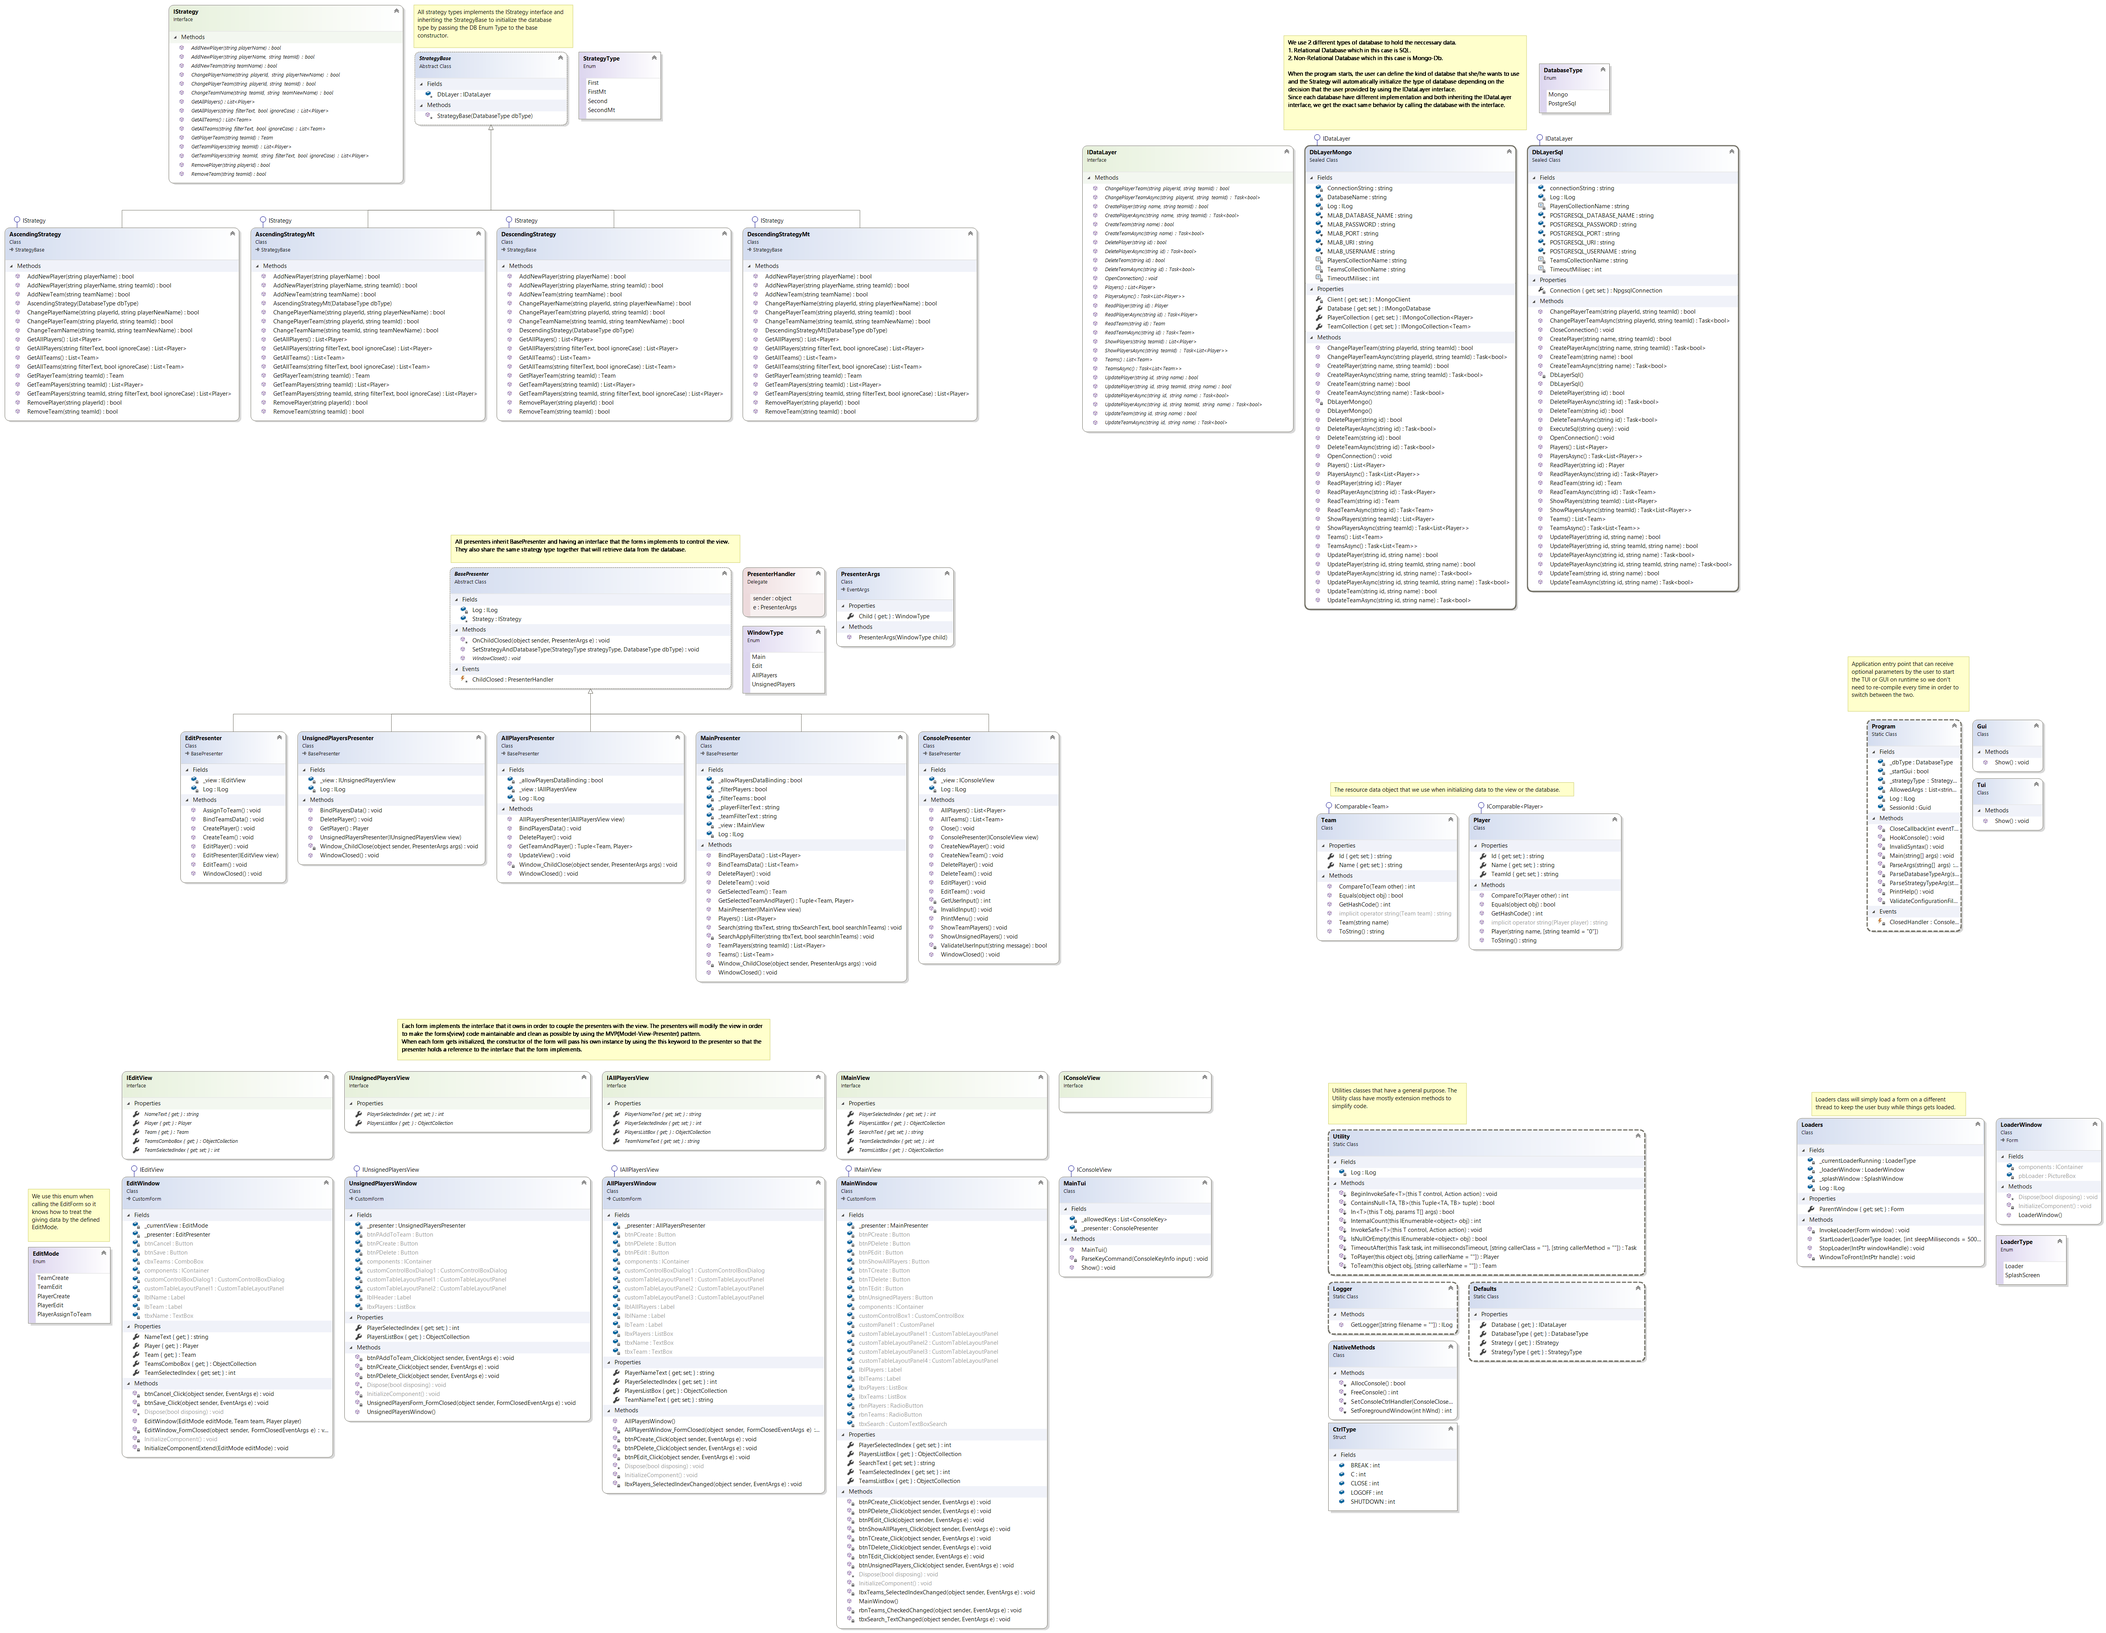
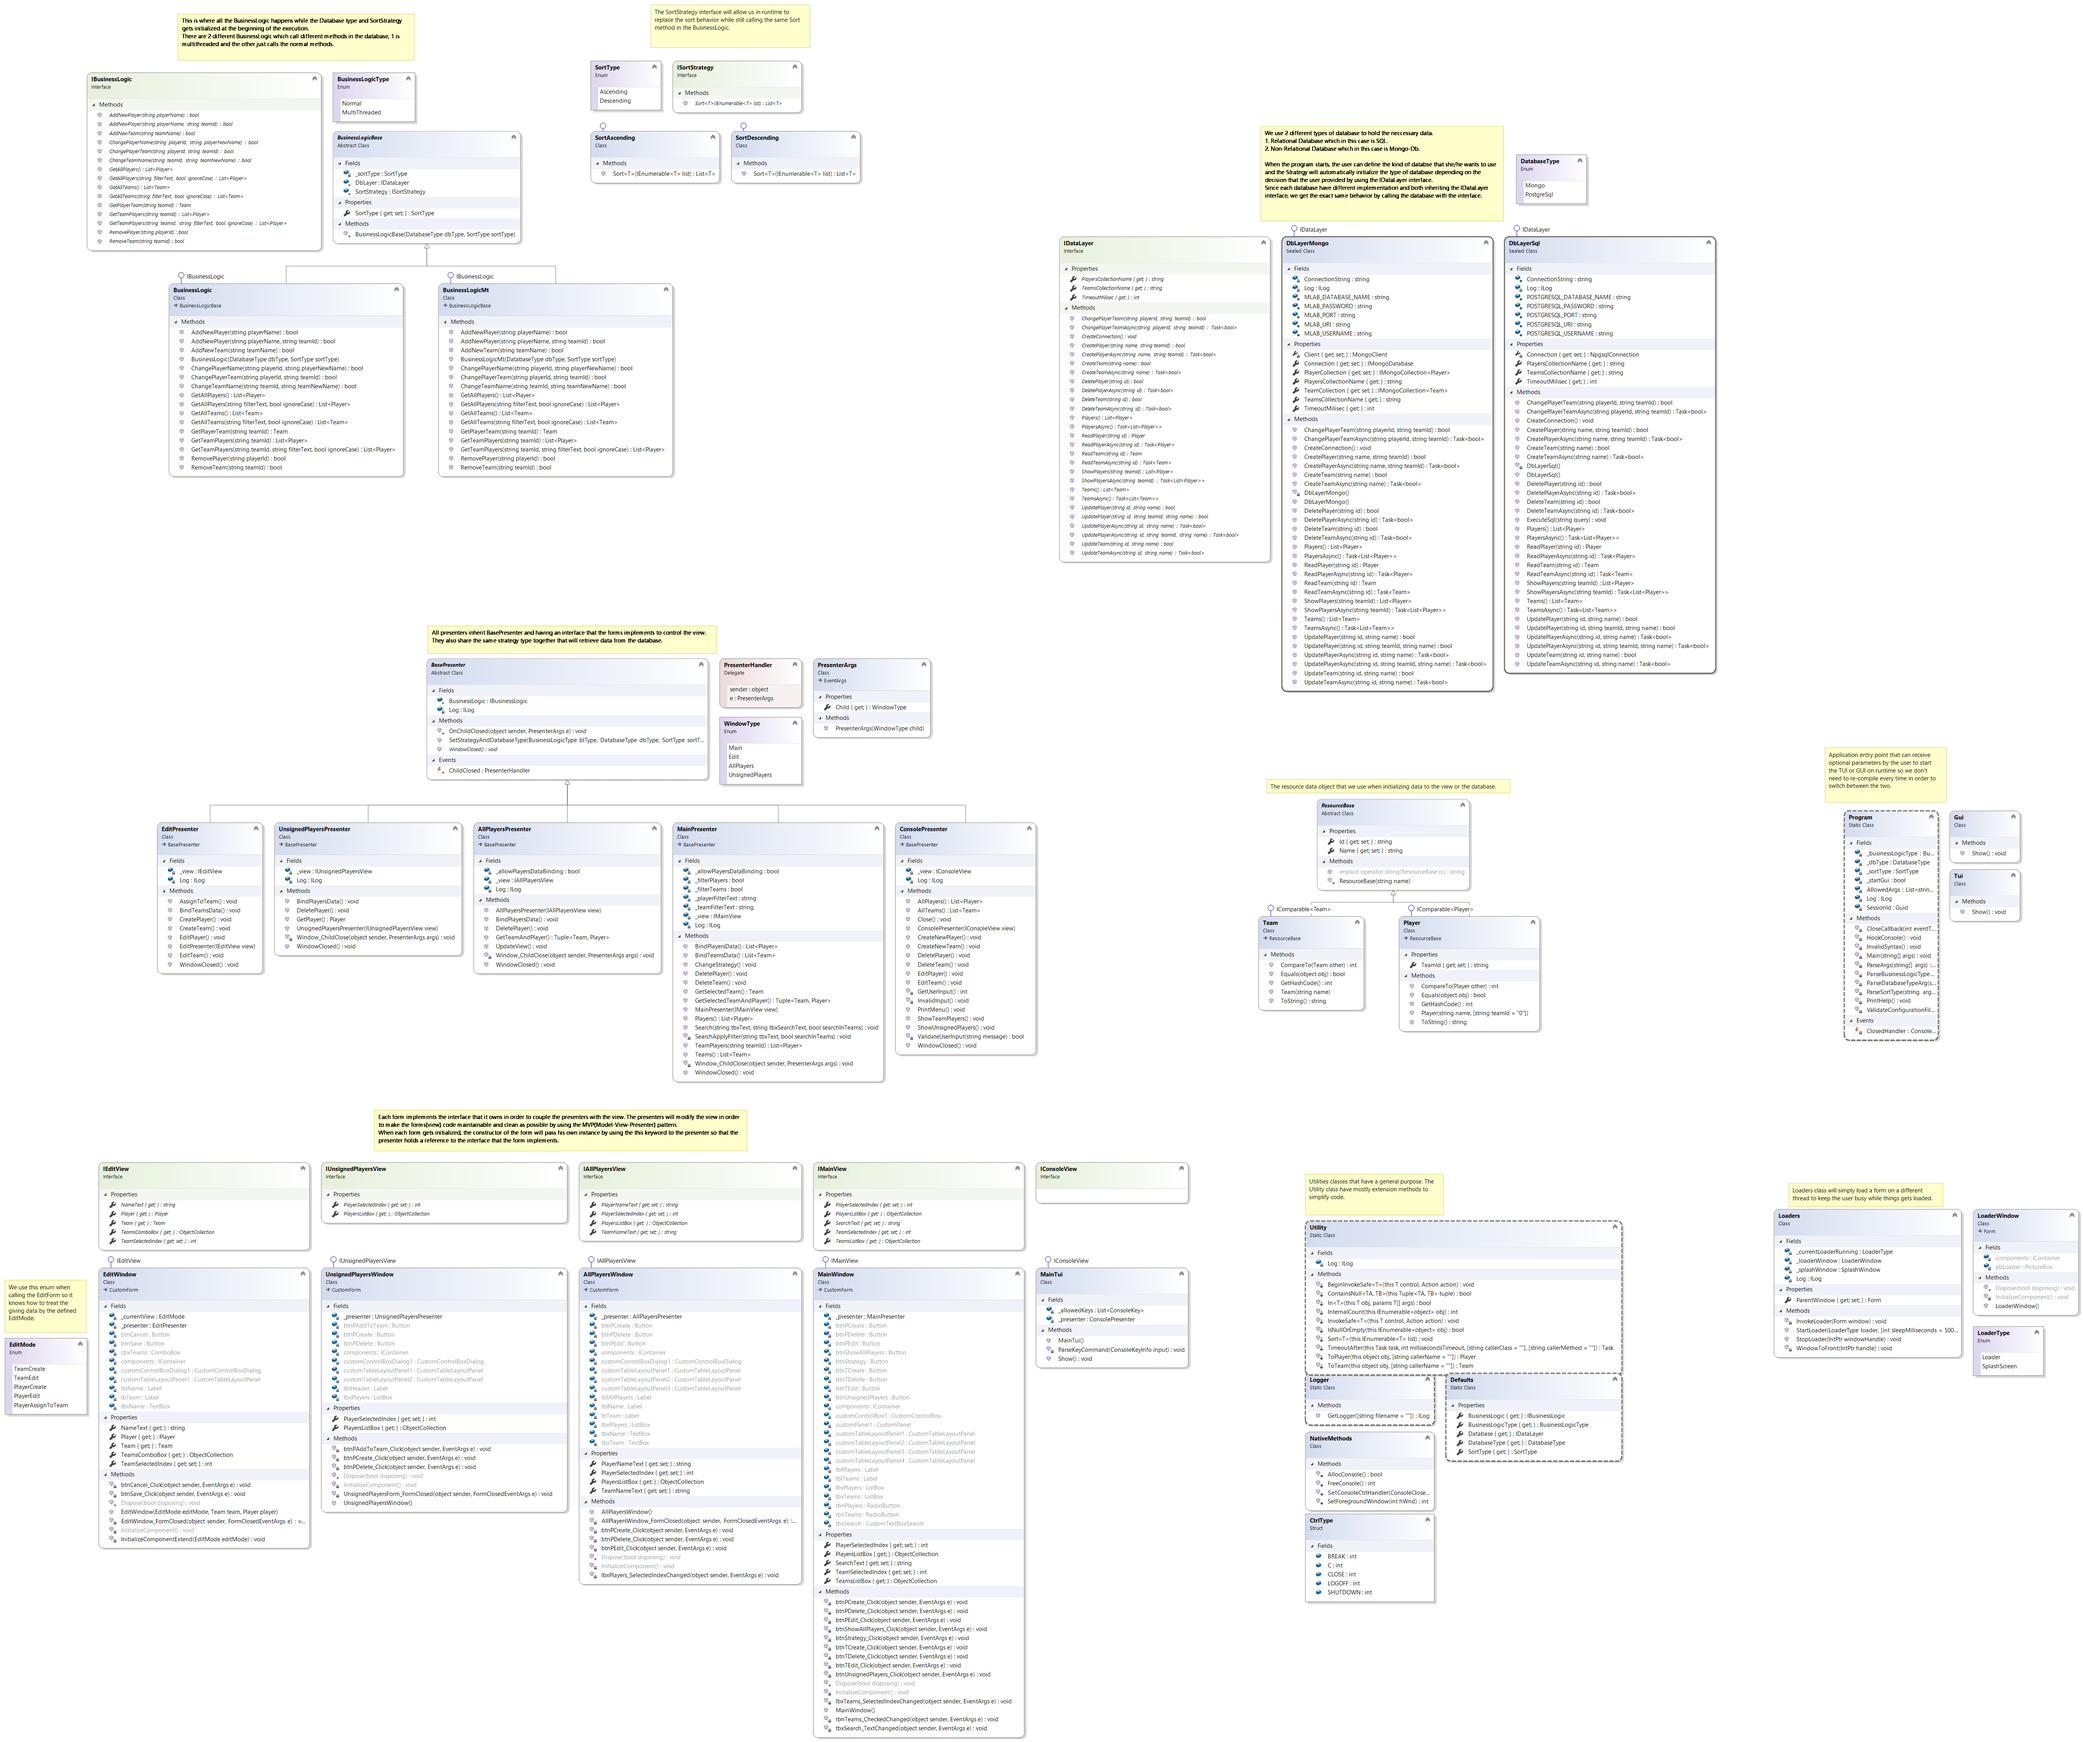
Move strategy into its own namespace and clean up project a bit.

diff --git a/src/TeamManager/Models/Logic/BusinessLogicMt.cs b/src/TeamManager/Models/Logic/BusinessLogicMt.cs
@@ -1,13 +1,14 @@
-using System;
-using System.Collections.Generic;
+using System.Collections.Generic;
 using System.Linq;
-using System.Text;
-using System.Threading.Tasks;
 using TeamManager.Database;
 using TeamManager.Models.ResourceData;
+using TeamManager.Models.Strategy;
 
 namespace TeamManager.Models.Logic
 {
+    /// <summary>
+    /// For more information refer to the comment in <see cref="IBusinessLogic"/> interface.
+    /// </summary>
     public class BusinessLogicMt : BusinessLogicBase, IBusinessLogic
     {
         public BusinessLogicMt(DatabaseType dbType, SortType sortType) : base(dbType, sortType) { }
@@ -45,7 +46,8 @@ namespace TeamManager.Models.Logic
 
         public List<Player> GetAllPlayers()
         {
-            return SortBehaviour.Sort(DbLayer.PlayersAsync().Result);
+            List<Player> players = DbLayer.PlayersAsync().Result;
+            return SortStrategy.Sort(players);
         }
 
         public List<Player> GetAllPlayers(string filterText, bool ignoreCase)
@@ -58,7 +60,8 @@ namespace TeamManager.Models.Logic
 
         public List<Team> GetAllTeams()
         {
-            return SortBehaviour.Sort(DbLayer.TeamsAsync().Result?.Where(t => t.Id != "0"));
+            IEnumerable<Team> teams = DbLayer.TeamsAsync().Result?.Where(t => t.Id != "0");
+            return SortStrategy.Sort(teams);
         }
 
         public List<Team> GetAllTeams(string filterText, bool ignoreCase)
@@ -70,7 +73,8 @@ namespace TeamManager.Models.Logic
 
         public List<Player> GetTeamPlayers(string teamId)
         {
-            return SortBehaviour.Sort(DbLayer.ShowPlayersAsync(teamId).Result);
+            List<Player> teamPlayers = DbLayer.ShowPlayersAsync(teamId).Result;
+            return SortStrategy.Sort(teamPlayers);
         }
 
         public List<Player> GetTeamPlayers(string teamId, string filterText, bool ignoreCase)

diff --git a/src/TeamManager/Models/Logic/BusinessLogic.cs b/src/TeamManager/Models/Logic/BusinessLogic.cs
@@ -1,13 +1,14 @@
-using System;
-using System.Collections.Generic;
+using System.Collections.Generic;
 using System.Linq;
-using System.Text;
-using System.Threading.Tasks;
 using TeamManager.Database;
 using TeamManager.Models.ResourceData;
+using TeamManager.Models.Strategy;
 
 namespace TeamManager.Models.Logic
 {
+    /// <summary>
+    /// For more information refer to the comment in <see cref="IBusinessLogic"/> interface.
+    /// </summary>
     public class BusinessLogic : BusinessLogicBase, IBusinessLogic
     {
         public BusinessLogic(DatabaseType dbType, SortType sortType) : base(dbType, sortType) { }
@@ -45,7 +46,8 @@ namespace TeamManager.Models.Logic
 
         public List<Player> GetAllPlayers()
         {
-            return SortBehaviour.Sort(DbLayer.Players());
+            List<Player> players = DbLayer.Players();
+            return SortStrategy.Sort(players);
         }
 
         public List<Player> GetAllPlayers(string filterText, bool ignoreCase)
@@ -58,7 +60,8 @@ namespace TeamManager.Models.Logic
 
         public List<Team> GetAllTeams()
         {
-            return SortBehaviour.Sort(DbLayer.Teams()?.Where(t => t.Id != "0"));
+            IEnumerable<Team> teams = DbLayer.Teams()?.Where(t => t.Id != "0");
+            return SortStrategy.Sort(teams);
         }
 
         public List<Team> GetAllTeams(string filterText, bool ignoreCase)
@@ -71,7 +74,8 @@ namespace TeamManager.Models.Logic
 
         public List<Player> GetTeamPlayers(string teamId)
         {
-            return SortBehaviour.Sort(DbLayer.ShowPlayers(teamId));
+            List<Player> teamPlayers = DbLayer.ShowPlayers(teamId);
+            return SortStrategy.Sort(teamPlayers);
         }
 
         public List<Player> GetTeamPlayers(string teamId, string filterText, bool ignoreCase)

diff --git a/src/TeamManager/Models/Logic/BusinessLogicBase.cs b/src/TeamManager/Models/Logic/BusinessLogicBase.cs
@@ -1,9 +1,5 @@
-using System;
-using System.Collections.Generic;
-using System.Linq;
-using System.Text;
-using System.Threading.Tasks;
-using TeamManager.Database;
+using TeamManager.Database;
+using TeamManager.Models.Strategy;
 using TeamManager.Utilities;
 
 namespace TeamManager.Models.Logic
@@ -13,10 +9,13 @@ namespace TeamManager.Models.Logic
         /// <summary> The <see cref="IDataLayer"/> instance that will be used for retrieving data from the database. </summary>
         protected IDataLayer DbLayer;
 
+        /// <summary> The <see cref="ISortStrategy"/> instance that will control the sort behavior using the strategy pattern. </summary>
+        protected static ISortStrategy SortStrategy;
 
-        protected static ISortStrategy SortBehaviour;
-
+        /// <summary> Place holder for the <see cref="SortType"/> property. </summary>
         private static SortType _sortType;
+
+        /// <summary> Static property that will allow to change the strategy beavhior in run-time. </summary>
         public static SortType SortType
         {
             get => _sortType;
@@ -24,9 +23,9 @@ namespace TeamManager.Models.Logic
             {
                 _sortType = value;
                 if (_sortType == SortType.Descending)
-                    SortBehaviour = new SortDescending();
+                    SortStrategy = new SortDescending();
                 else
-                    SortBehaviour = new SortAscending();
+                    SortStrategy = new SortAscending();
             }
         }
 

diff --git a/src/TeamManager/Models/Strategy/ISortStrategy.cs b/src/TeamManager/Models/Strategy/ISortStrategy.cs
@@ -1,0 +1,20 @@
+using System.Collections.Generic;
+using TeamManager.Models.ResourceData;
+
+namespace TeamManager.Models.Strategy
+{
+    /// <summary>
+    /// The <see cref="ISortStrategy"/> interface will be in the <see cref="BusinessLogicBase"/> in order to allow 
+    /// changing the sort behavior in run-time using the Strategy Pattern.
+    /// </summary>
+    public interface ISortStrategy
+    {
+        /// <summary>
+        /// Sorts a generic collection that their type is part of the <see cref="ResourceBase"/> class.
+        /// </summary>
+        /// <typeparam name="T">The type of the collection. </typeparam>
+        /// <param name="list">The collection/list. </param>
+        /// <returns></returns>
+        List<T> Sort<T>(IEnumerable<T> list) where T : ResourceBase;
+    }
+}

diff --git a/src/TeamManager/Models/Logic/BusinessLogicType.cs b/src/TeamManager/Models/Logic/BusinessLogicType.cs
@@ -1,15 +1,14 @@
-using System;
-using System.Collections.Generic;
-using System.Linq;
-using System.Text;
-using System.Threading.Tasks;
-
-namespace TeamManager.Models.Logic
+namespace TeamManager.Models.Logic
 {
+    /// <summary>
+    /// Defines the type of the <see cref="IBusinessLogic"/> to be used.
+    /// </summary>
     public enum BusinessLogicType
     {
+        /// <summary> Calls the normal methods in the <see cref="Database.IDataLayer"/>. </summary>
         Normal,
 
+        /// <summary> Calls the multi-threaded methods in the <see cref="Database.IDataLayer"/>. </summary>
         MultiThreaded
     }
 }

diff --git a/src/TeamManager/Models/ResourceData/ResourceBase.cs b/src/TeamManager/Models/ResourceData/ResourceBase.cs
@@ -1,11 +1,12 @@
 using System;
-using System.Collections.Generic;
-using System.Linq;
-using System.Text;
-using System.Threading.Tasks;
 
 namespace TeamManager.Models.ResourceData
 {
+    /// <summary>
+    /// Commmon data that the resource data will be used.
+    /// It's important that every resource data objects inheriting this class due to the constraint in the 
+    /// <see cref="Strategy.ISortStrategy"/>.
+    /// </summary>
     public abstract class ResourceBase
     {
         /// <summary> The <see cref="Id"/> of the <see cref="ResourceBase"/> which is defined with the <see cref="Guid"/>. </summary>

diff --git a/src/TeamManager/Models/Strategy/SortDescending.cs b/src/TeamManager/Models/Strategy/SortDescending.cs
@@ -1,12 +1,13 @@
-using System;
-using System.Collections.Generic;
+using System.Collections.Generic;
 using System.Linq;
-using System.Text;
-using System.Threading.Tasks;
 using TeamManager.Models.ResourceData;
 
-namespace TeamManager.Models.Logic
+namespace TeamManager.Models.Strategy
 {
+    /// <summary>
+    /// Sorting in Descending order.
+    /// For more info, refer to <see cref="ISortStrategy"/>.
+    /// </summary>
     public class SortDescending : ISortStrategy
     {
         public List<T> Sort<T>(IEnumerable<T> list) where T : ResourceBase

diff --git a/src/TeamManager/Models/Strategy/SortAscending.cs b/src/TeamManager/Models/Strategy/SortAscending.cs
@@ -1,12 +1,13 @@
-using System;
-using System.Collections.Generic;
+using System.Collections.Generic;
 using System.Linq;
-using System.Text;
-using System.Threading.Tasks;
 using TeamManager.Models.ResourceData;
 
-namespace TeamManager.Models.Logic
+namespace TeamManager.Models.Strategy
 {
+    /// <summary>
+    /// Sorting in Ascending order.
+    /// For more info, refer to <see cref="ISortStrategy"/>.
+    /// </summary>
     public class SortAscending : ISortStrategy
     {
         public List<T> Sort<T>(IEnumerable<T> list) where T : ResourceBase

diff --git a/src/TeamManager/Utilities/NativeMethods.cs b/src/TeamManager/Utilities/NativeMethods.cs
@@ -1,4 +1,5 @@
-using System.Security;
+using System;
+using System.Security;
 using System.Runtime.InteropServices;
 
 namespace TeamManager.Utilities
@@ -44,7 +45,7 @@ namespace TeamManager.Utilities
         /// <param name="hWnd"></param>
         /// <returns></returns>
         [DllImport("user32.dll")]
-        internal static extern int SetForegroundWindow(int hWnd);
+        internal static extern int SetForegroundWindow(IntPtr hWnd);
     }
 
     /// <summary>

diff --git a/src/TeamManager/Database/DbLayerSql.cs b/src/TeamManager/Database/DbLayerSql.cs
@@ -14,6 +14,7 @@ namespace TeamManager.Database
     /// For more information, please refer to:
     /// <see cref="DatabaseType"/>
     /// <see cref="IDataLayer"/>
+    /// TODO: Probably a better idea would be adding stored procedures instead of queries with string concatenations.
     /// </summary>
     public sealed class DbLayerSql : IDataLayer
     {

diff --git a/src/TeamManager/Models/Strategy/SortType.cs b/src/TeamManager/Models/Strategy/SortType.cs
@@ -1,0 +1,14 @@
+namespace TeamManager.Models.Strategy
+{
+    /// <summary>
+    /// Enum for defining the type of sorting.
+    /// </summary>
+    public enum SortType
+    {
+        /// <summary>Sorting in Ascending order. </summary>
+        Ascending,
+
+        /// <summary>Sorting in Descending order. </summary>
+        Descending
+    }
+}

diff --git a/src/TeamManager/Views/Loader/Loaders.cs b/src/TeamManager/Views/Loader/Loaders.cs
@@ -122,7 +122,7 @@ namespace TeamManager.Views.Loader
         /// <param name="handle">The handle of the window. </param>
         private static void WindowToFront(IntPtr handle)
         {
-            NativeMethods.SetForegroundWindow(handle.ToInt32());
+            NativeMethods.SetForegroundWindow(handle);
         }
 
     }
